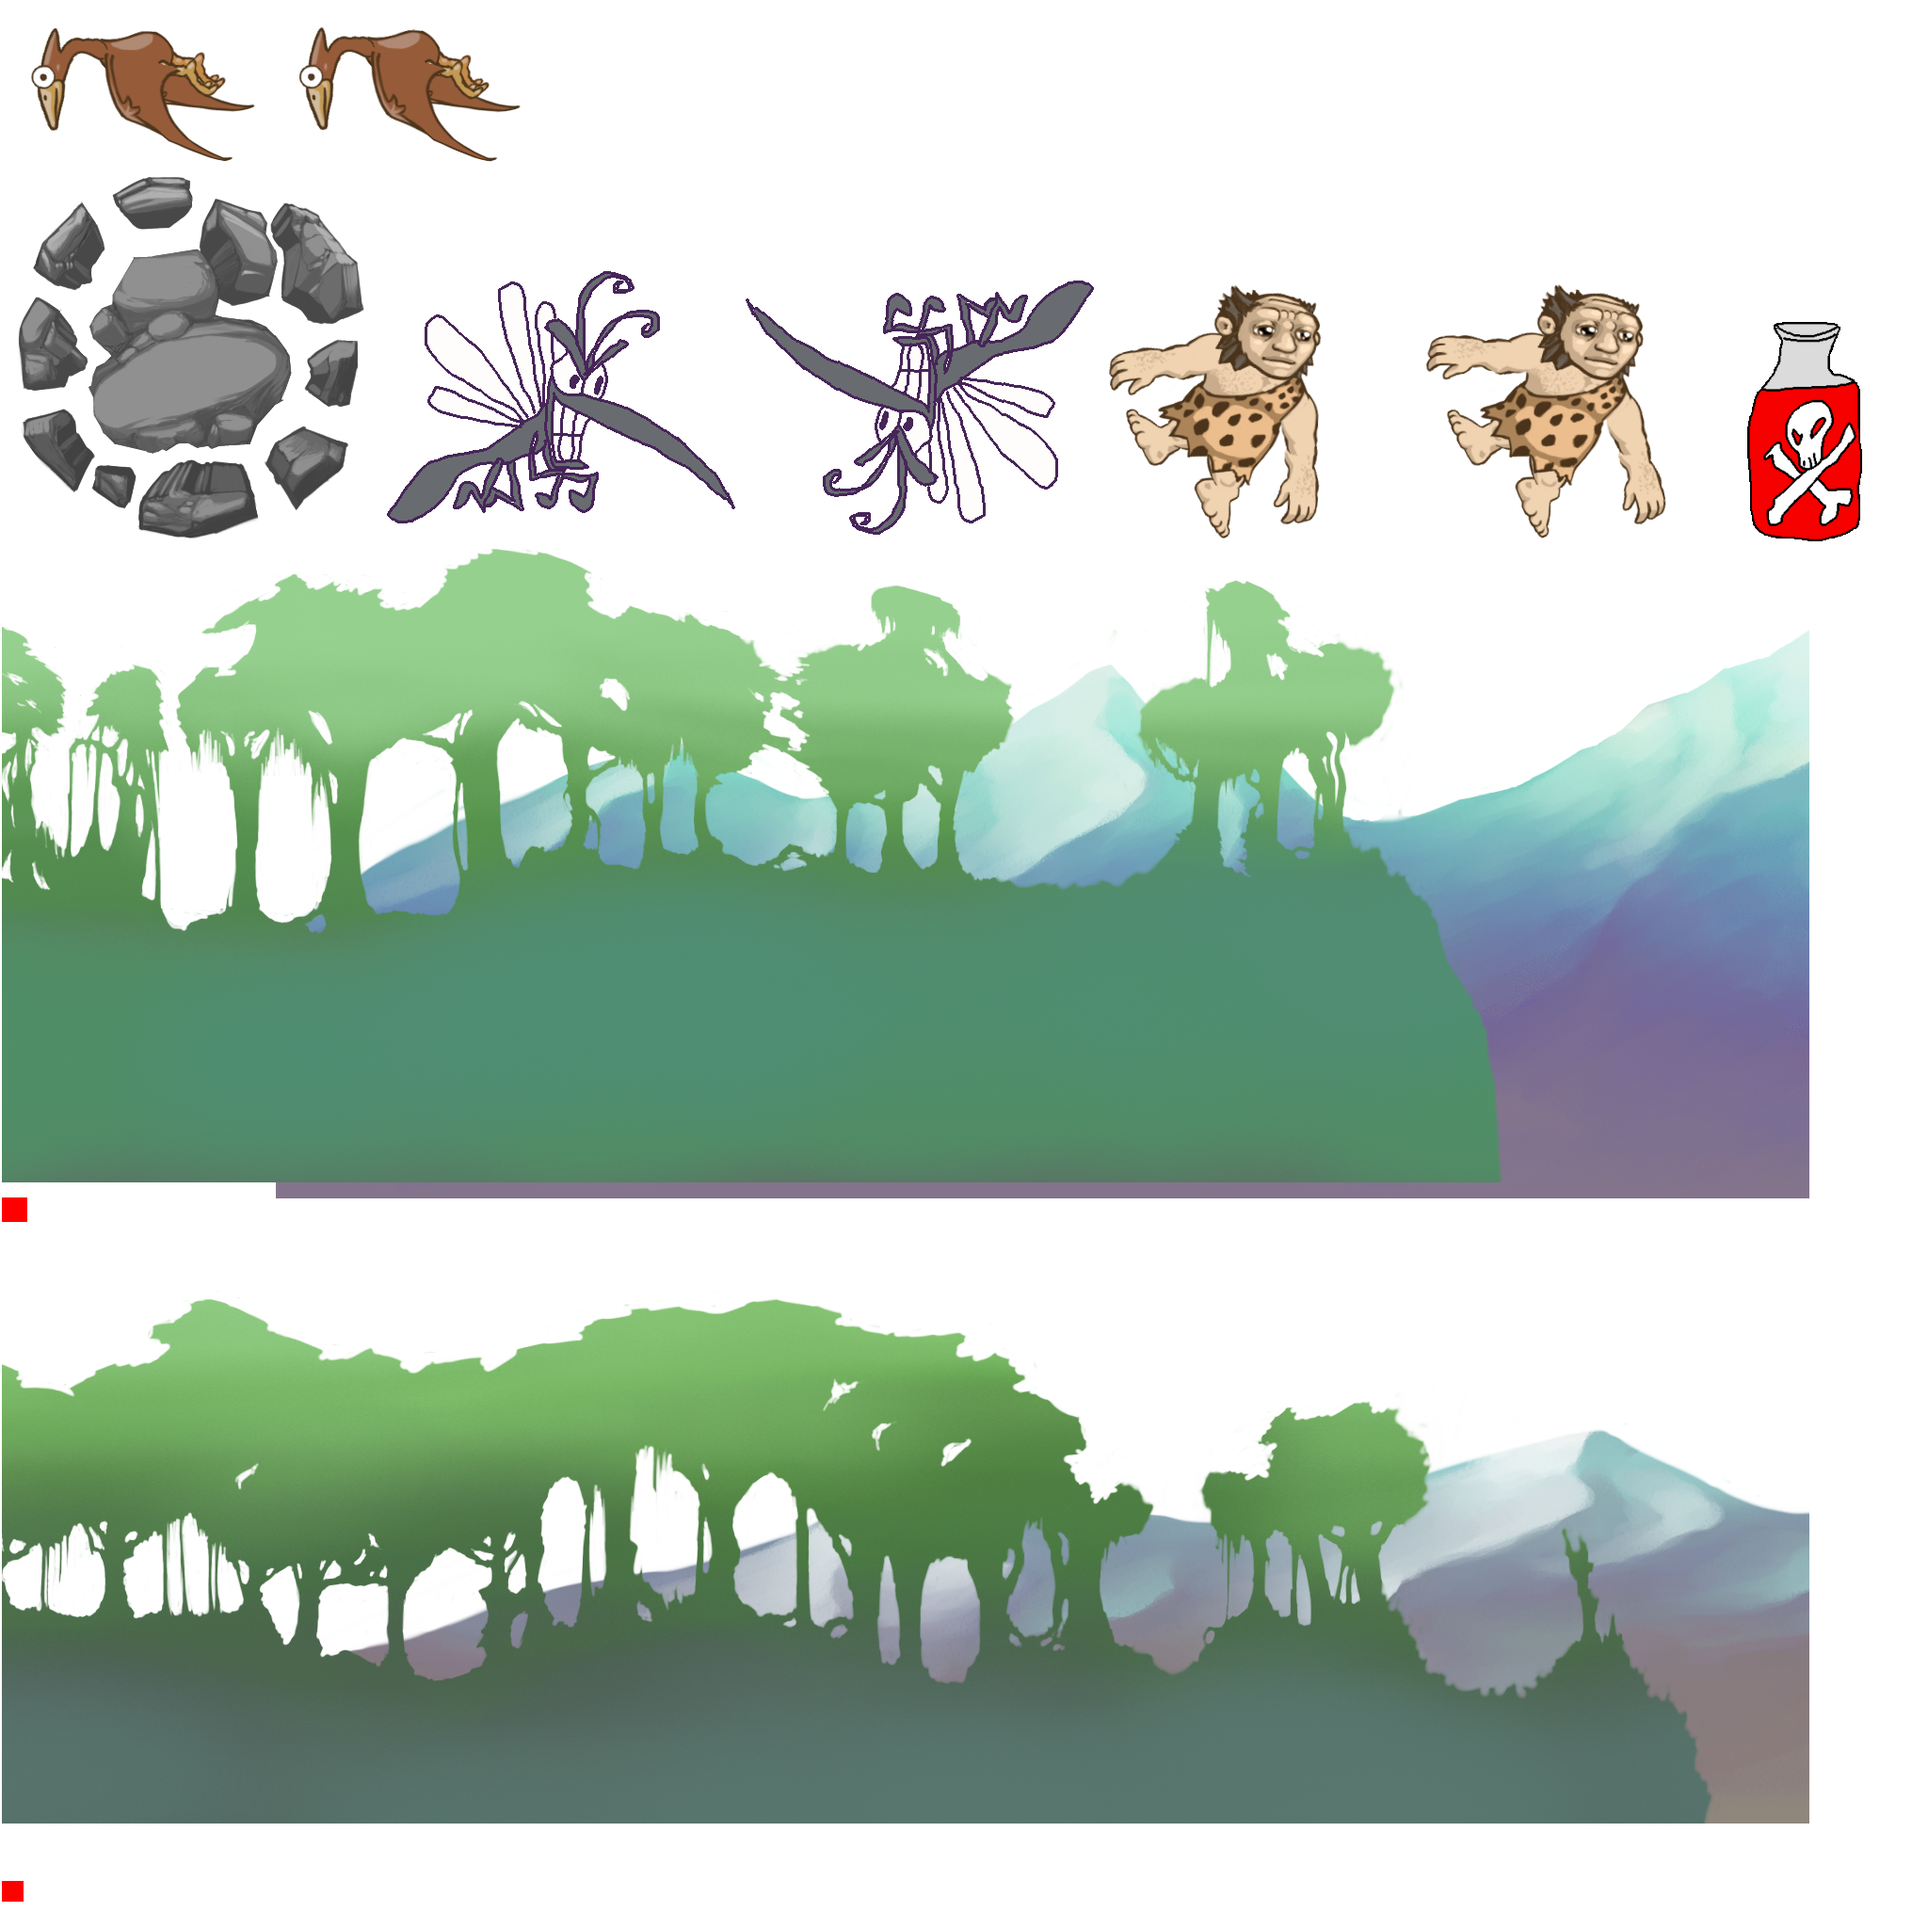
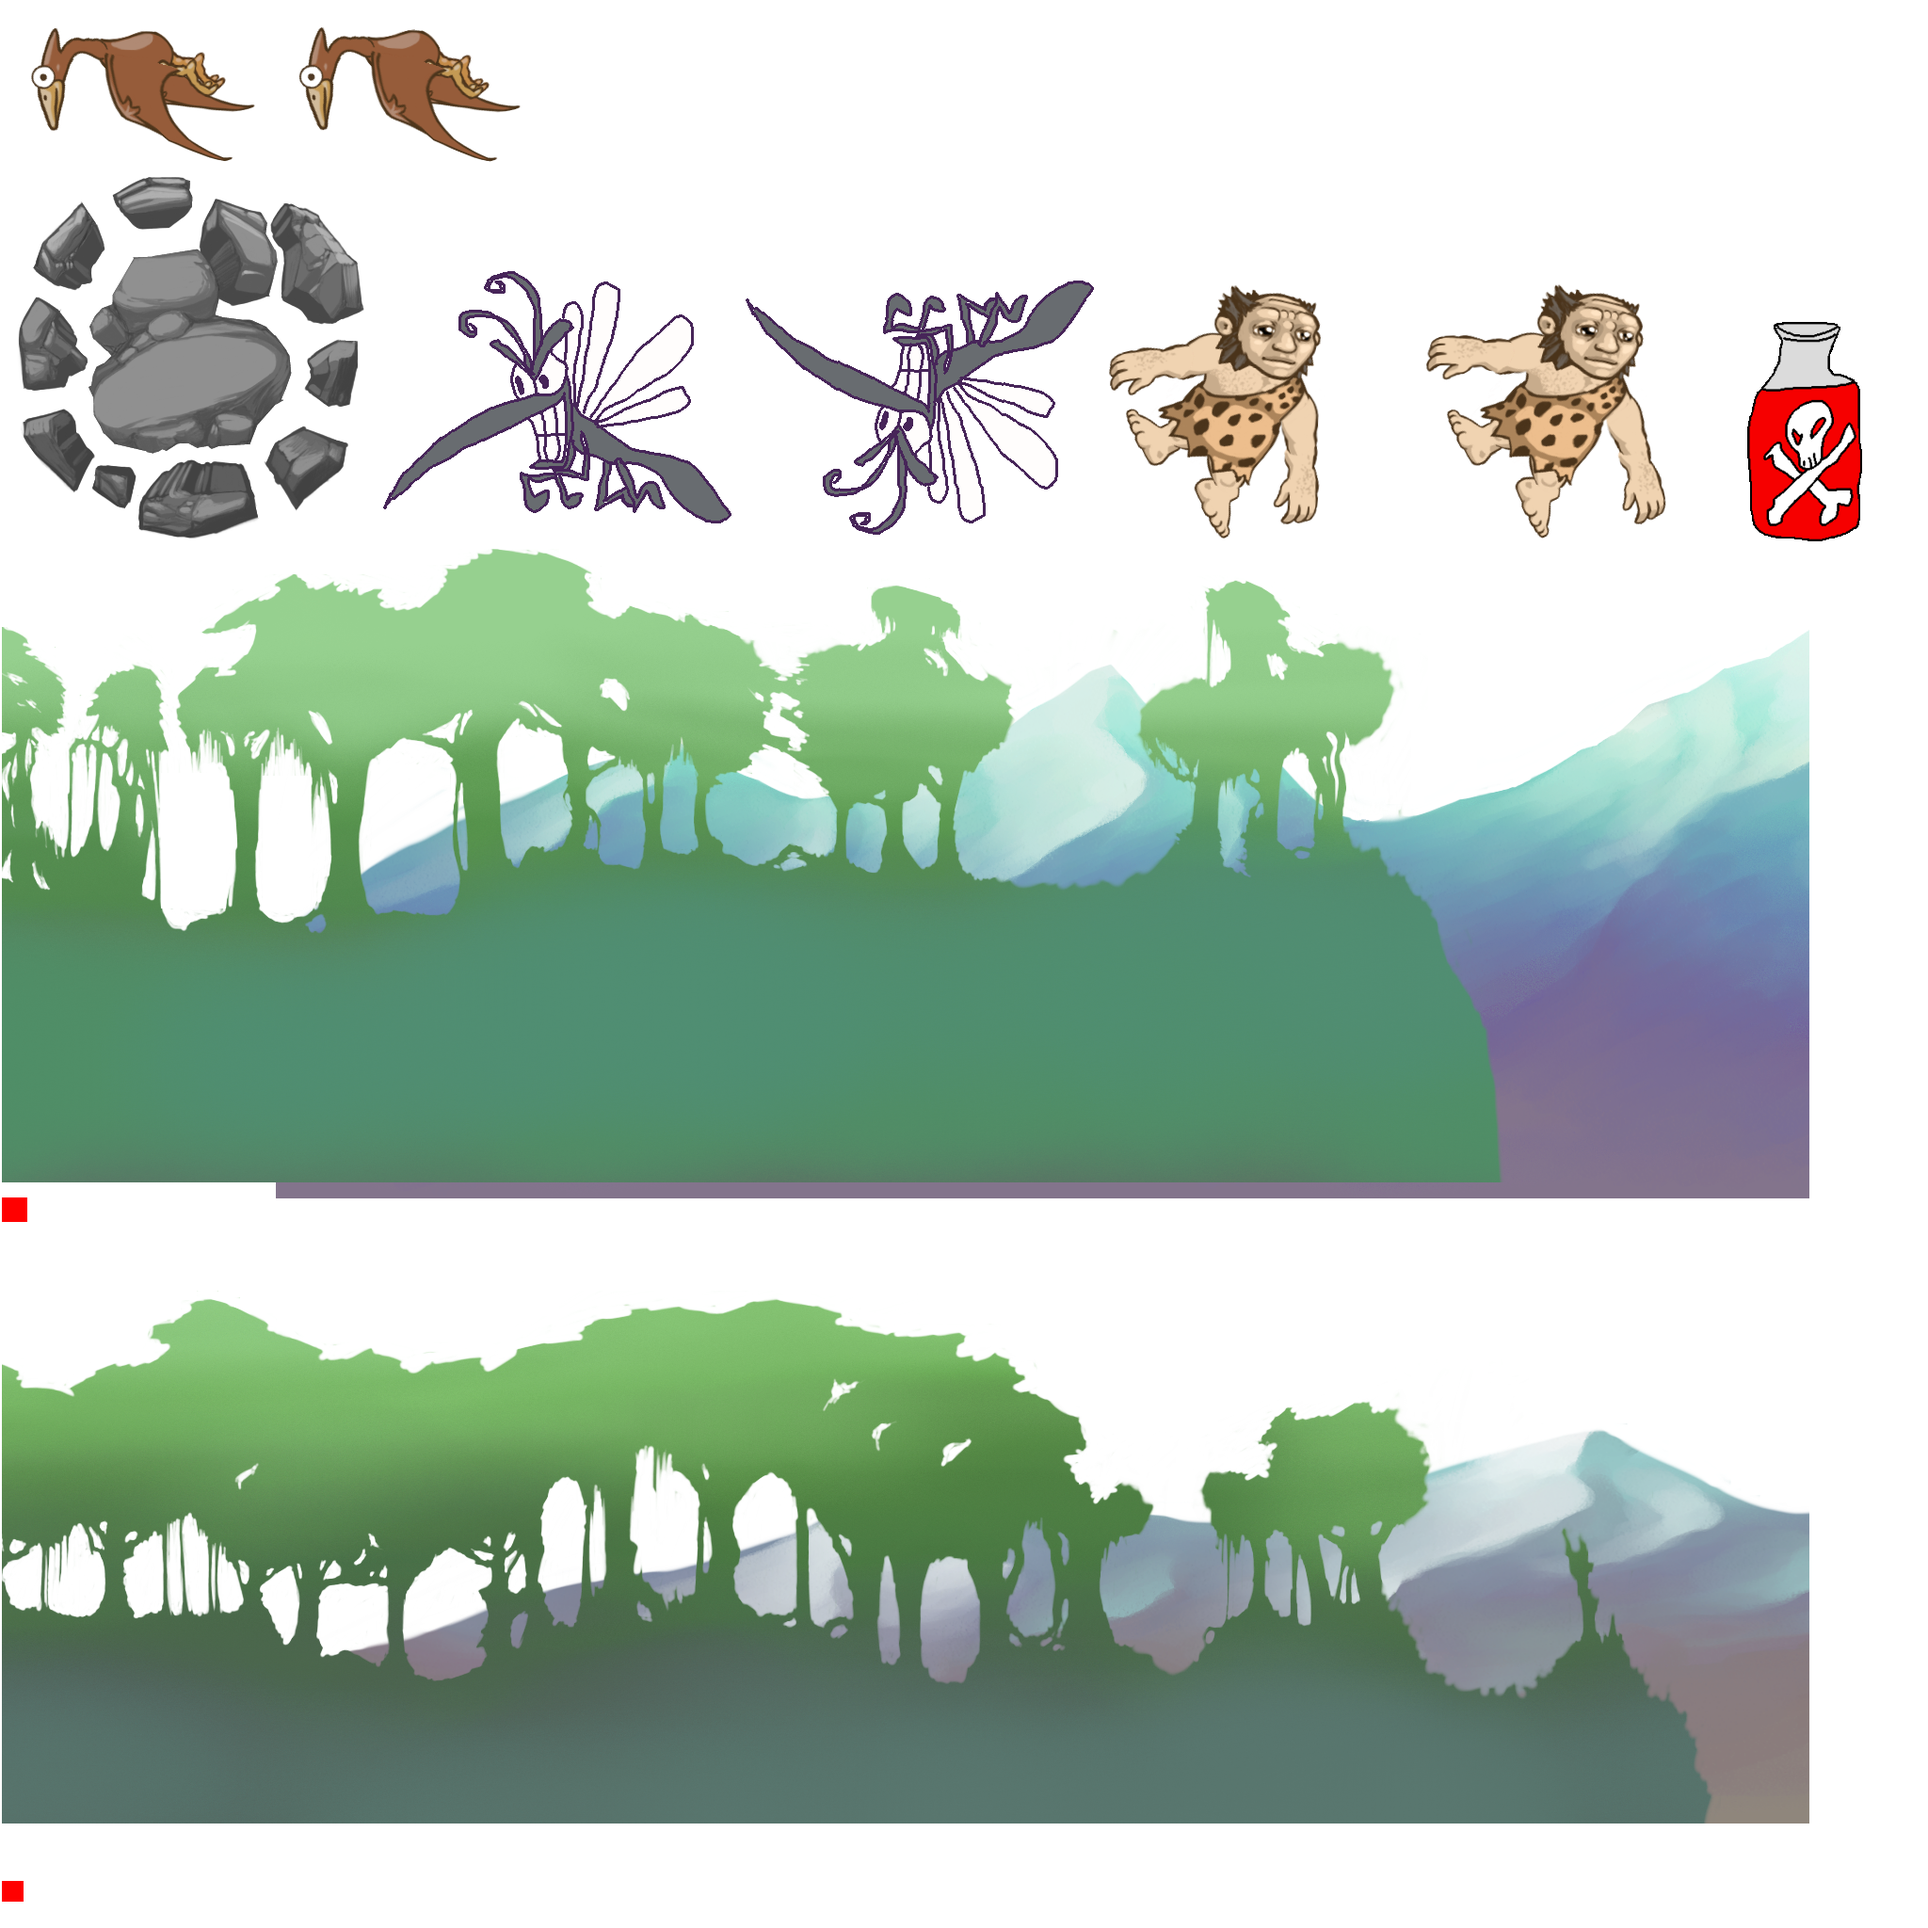
:trihard: mosquito implemented + balanced

Changed region(s): [[0.1875, 0.125, 0.375, 0.2812]]

diff --git a/core/src/com/deeep/flycaveman/entities/Obstacle.java b/core/src/com/deeep/flycaveman/entities/Obstacle.java
@@ -16,7 +16,7 @@ import java.util.Random;
 public class Obstacle implements Entity {
 
     public static enum Type {
-        SMALL_EGG, BRACHIOSAURUS, QUETZALCOATLUS, ARGENTAVIS, TOUCAN, SABRETOOTH
+        SMALL_EGG, BRACHIOSAURUS, QUETZALCOATLUS, ARGENTAVIS, TOUCAN, SABRETOOTH, MOSQUITO
     }
 
     private boolean dead = false;
@@ -27,7 +27,7 @@ public class Obstacle implements Entity {
     private PolygonShape shape;
     public int type;
     private final float smallEggSizeX = 0.65f, smallEggSizeY = 0.5f, quetzaSizeX = 2, quetzaSizeY = 2, brachioSizeX = 4,
-            brachioSizeY = 3, sabretoothSize = 0.5f;
+            brachioSizeY = 3, sabretoothSize = 0.5f, mosquitoSize = 0.65f;
     private float realSizeX, realSizeY, textureSizeX, textureSizeY;
     private Sprite sprite;
     private boolean hit;
@@ -106,6 +106,11 @@ public class Obstacle implements Entity {
             sprite.setSize(sabretoothSize * 2, sabretoothSize * 2);
             realSizeX = sabretoothSize;
             realSizeY = sabretoothSize;
+        } else if (type == Type.MOSQUITO.ordinal()) {
+            sprite = new Sprite(new TextureRegion(Assets.mosquitoTexture/*.getKeyFrame(stateTime)*/));
+            sprite.setSize(mosquitoSize * 2, mosquitoSize * 2);
+            realSizeX = mosquitoSize;
+            realSizeY = mosquitoSize;
         }
         textureSizeX = sprite.getRegionWidth();
         textureSizeY = sprite.getRegionHeight();
@@ -118,56 +123,9 @@ public class Obstacle implements Entity {
 
     @Override
     public void draw(Batch batch) {
-        if (type == Type.SMALL_EGG.ordinal()) {
-            if (!hit) sprite.setRegion(Assets.smallEggTexture);
-            else sprite.setRegion(Assets.smallEggBroken);
-        } else if (type == Type.BRACHIOSAURUS.ordinal()) {
-            if (!hit) sprite.setRegion(Assets.brachioTexture);
-            else if (tempBody != null) {
-                String tempString = (String) tempBody.getUserData();
-                if (tempString != null && tempString.equals("BodyHead")) sprite.setRegion(Assets.brachioFrontPull);
-                else if (tempString != null && tempString.equals("BodyTail")) sprite.setRegion(Assets.brachioBackPull);
-                else sprite.setRegion(Assets.brachioMidPull);
-            }
-        } else if (type == Type.QUETZALCOATLUS.ordinal()) {
-            if (!hit) sprite.setRegion(Assets.quetzaTexture.getKeyFrame(stateTime));
-            else sprite.setRegion(Assets.quetzaHit.getKeyFrame(stateTime));
-        } else if (type == Type.ARGENTAVIS.ordinal()) {
-            if (!hit) sprite.setRegion(Assets.argenTexture);
-            else sprite.setRegion(Assets.argenHit);
-        } else if (type == Type.TOUCAN.ordinal()) {
-            if (!hit) sprite.setRegion(Assets.toucanTexture);
-            else sprite.setRegion(Assets.toucanHit);
-        } else if (type == Type.SABRETOOTH.ordinal()) {
-            if (!hit) sprite.setRegion(Assets.sabertoothIdle.getKeyFrame(stateTime));
-            else sprite.setRegion(Assets.sabertoothHit.getKeyFrame(stateTime));
-        }
-        {/**Sprite realSizeX*/
-            float sizeX = sprite.getRegionWidth() * (realSizeX * 2) / textureSizeX;
-            float sizeY = sprite.getRegionHeight() * (realSizeY * 2) / textureSizeY;
-            sprite.setSize(sizeX, sizeY);
-            sprite.setOrigin(sprite.getWidth() / 2, sprite.getHeight() / 2);
-        }
-        {/**Sprite Position*/
-            if (type == Type.SMALL_EGG.ordinal())
-                sprite.setPosition(body.getPosition().x - sprite.getWidth() / 2,
-                        body.getPosition().y - sprite.getHeight() / 2);
-            else if (type == Type.BRACHIOSAURUS.ordinal())
-                sprite.setPosition(body.getPosition().x - sprite.getWidth() / 2,
-                        body.getPosition().y - sprite.getHeight() / 2);
-            else if (type == Type.QUETZALCOATLUS.ordinal())
-                sprite.setPosition(body.getPosition().x - sprite.getWidth() / 2 + 0.5f,
-                        body.getPosition().y - sprite.getHeight() / 2.5f);
-            else if (type == Type.ARGENTAVIS.ordinal())
-                sprite.setPosition(body.getPosition().x - sprite.getWidth() / 2,
-                        body.getPosition().y - sprite.getHeight() / 5);
-            else if (type == Type.TOUCAN.ordinal())
-                sprite.setPosition(body.getPosition().x - sprite.getWidth() / 2,
-                        body.getPosition().y - sprite.getHeight() / 2);
-            else if (type == Type.SABRETOOTH.ordinal())
-                sprite.setPosition(body.getPosition().x - sprite.getWidth() / 2,
-                        body.getPosition().y - sprite.getHeight() / 2);
-        }
+        getSpriteForType();
+        setSpriteSize();
+        setSpritePosition();
         sprite.setRotation(body.getAngle() * MathUtils.radiansToDegrees);
         sprite.draw(batch);
     }
@@ -175,13 +133,11 @@ public class Obstacle implements Entity {
     @Override
     public void update(float delta) {
         stateTime += delta;
-        if (!hit && type == Type.QUETZALCOATLUS.ordinal()
-                || type == Type.ARGENTAVIS.ordinal()
-                || type == Type.TOUCAN.ordinal()) {
+        if (!hit && type == Type.QUETZALCOATLUS.ordinal() || type == Type.ARGENTAVIS.ordinal()
+                || type == Type.TOUCAN.ordinal() || type == Type.MOSQUITO.ordinal()) {
             body.setTransform(body.getPosition().x - (delta * 6), body.getPosition().y, body.getAngle());
-        } else if (hit && type == Type.QUETZALCOATLUS.ordinal()
-                || type == Type.ARGENTAVIS.ordinal()
-                || type == Type.TOUCAN.ordinal()) {
+        } else if (hit && type == Type.QUETZALCOATLUS.ordinal() || type == Type.ARGENTAVIS.ordinal()
+                || type == Type.TOUCAN.ordinal() || type == Type.MOSQUITO.ordinal()) {
             body.setTransform(body.getPosition().x, body.getPosition().y - (delta * 10), body.getAngle());
         }
         if (hit) body.setActive(false);
@@ -207,7 +163,9 @@ public class Obstacle implements Entity {
     private void setType(Random random) {
         float typeRand = random.nextFloat();
         if (typeRand <= 0.96f && typeRand > 0.5f) {
-            if (random.nextFloat() <= 0.75f) type = Type.QUETZALCOATLUS.ordinal();
+            float rand = random.nextFloat();
+            if (rand <= 0.75f && rand > 0.35f) type = Type.QUETZALCOATLUS.ordinal();
+            else if (rand <= 0.35f) type = Type.MOSQUITO.ordinal();
             else type = Type.ARGENTAVIS.ordinal();
         } else if (typeRand >= 0.96f) type = Type.BRACHIOSAURUS.ordinal();
         else if (typeRand <= 0.5f && typeRand > 0.10f) type = Type.SMALL_EGG.ordinal();
@@ -237,6 +195,79 @@ public class Obstacle implements Entity {
         } else if (type == Type.SABRETOOTH.ordinal()) {
             bodyDef.position.set(positionX, 1.5f);
             shape.setAsBox(sabretoothSize, sabretoothSize);
+        } else if (type == Type.MOSQUITO.ordinal()) {
+            bodyDef.position.set(positionX, Math.max(5,
+                    world.caveman.body.getPosition().y - 20 + random.nextFloat() * 60));
+            shape.setAsBox(mosquitoSize - 0.2f, mosquitoSize - 0.2f);
         }
+    }
+
+    private void getSpriteForType() {
+        switch (type) {
+            case 0: /**SMALL_EGG*/
+                if (!hit) sprite.setRegion(Assets.smallEggTexture);
+                else sprite.setRegion(Assets.smallEggBroken);
+                break;
+            case 1: /**BRACHIOSAURUS*/
+                if (!hit) sprite.setRegion(Assets.brachioTexture);
+                else if (tempBody != null) {
+                    String tempString = (String) tempBody.getUserData();
+                    if (tempString != null && tempString.equals("BodyHead")) sprite.setRegion(Assets.brachioFrontPull);
+                    else if (tempString != null && tempString.equals("BodyTail"))
+                        sprite.setRegion(Assets.brachioBackPull);
+                    else sprite.setRegion(Assets.brachioMidPull);
+                }
+                break;
+            case 2: /**QUETZALCOATLUS*/
+                if (!hit) sprite.setRegion(Assets.quetzaTexture.getKeyFrame(stateTime));
+                else sprite.setRegion(Assets.quetzaHit.getKeyFrame(stateTime));
+                break;
+            case 3: /**ARGENTAVIS*/
+                if (!hit) sprite.setRegion(Assets.argenTexture);
+                else sprite.setRegion(Assets.argenHit);
+                break;
+            case 4: /**TOUCAN*/
+                if (!hit) sprite.setRegion(Assets.toucanTexture);
+                else sprite.setRegion(Assets.toucanHit);
+                break;
+            case 5: /**SABRETOOTH*/
+                if (!hit) sprite.setRegion(Assets.sabertoothIdle.getKeyFrame(stateTime));
+                else sprite.setRegion(Assets.sabertoothHit.getKeyFrame(stateTime));
+                break;
+            case 6: /**MOSQUITO*/
+                if (!hit) sprite.setRegion(Assets.mosquitoTexture/*.getKeyFrame(stateTime)*/);
+                else sprite.setRegion(Assets.mosquitoHit/*.getKeyFrame(stateTime)*/);
+                break;
+        }
+    }
+
+    private void setSpriteSize() {
+        sprite.setSize(sprite.getRegionWidth() * (realSizeX * 2) / textureSizeX,
+                sprite.getRegionHeight() * (realSizeY * 2) / textureSizeY);
+        sprite.setOrigin(sprite.getWidth() / 2, sprite.getHeight() / 2);
+    }
+
+    private void setSpritePosition() {
+        if (type == Type.SMALL_EGG.ordinal())
+            sprite.setPosition(body.getPosition().x - sprite.getWidth() / 2,
+                    body.getPosition().y - sprite.getHeight() / 2);
+        else if (type == Type.BRACHIOSAURUS.ordinal())
+            sprite.setPosition(body.getPosition().x - sprite.getWidth() / 2,
+                    body.getPosition().y - sprite.getHeight() / 2);
+        else if (type == Type.QUETZALCOATLUS.ordinal())
+            sprite.setPosition(body.getPosition().x - sprite.getWidth() / 2 + 0.5f,
+                    body.getPosition().y - sprite.getHeight() / 2.5f);
+        else if (type == Type.ARGENTAVIS.ordinal())
+            sprite.setPosition(body.getPosition().x - sprite.getWidth() / 2,
+                    body.getPosition().y - sprite.getHeight() / 5);
+        else if (type == Type.TOUCAN.ordinal())
+            sprite.setPosition(body.getPosition().x - sprite.getWidth() / 2,
+                    body.getPosition().y - sprite.getHeight() / 2);
+        else if (type == Type.SABRETOOTH.ordinal())
+            sprite.setPosition(body.getPosition().x - sprite.getWidth() / 2,
+                    body.getPosition().y - sprite.getHeight() / 2);
+        else if (type == Type.MOSQUITO.ordinal())
+            sprite.setPosition(body.getPosition().x - sprite.getWidth() / 2,
+                    body.getPosition().y - sprite.getHeight() / 2);
     }
 }

diff --git a/core/src/com/deeep/flycaveman/input/GameContactListener.java b/core/src/com/deeep/flycaveman/input/GameContactListener.java
@@ -17,7 +17,7 @@ public class GameContactListener implements ContactListener {
     private com.deeep.flycaveman.world.World world;
     private float force;
     private final float smallEggForce = 10, sabretoothForce = 15, brachioForce = 20, quetzaForce = 18, argenForce = 20,
-            toucanForce = 35;
+            toucanForce = 35, mosquitoForce = 16;
 
     public GameContactListener(Core game, World world) {
         this.game = game;
@@ -76,6 +76,10 @@ public class GameContactListener implements ContactListener {
                     case 5: /**SABRETOOTH*/
                         world.caveman.body.setLinearVelocity(world.caveman.body.getLinearVelocity().x,
                                 sabretoothForce + Math.abs(world.caveman.body.getLinearVelocity().y / 2));
+                        break;
+                    case 6: /**MOSQUITO*/
+                        world.caveman.body.setLinearVelocity(world.caveman.body.getLinearVelocity().x,
+                                mosquitoForce + Math.abs(world.caveman.body.getLinearVelocity().y / 2));
                         break;
                 }
                 if (obstacle.type == Obstacle.Type.BRACHIOSAURUS.ordinal()) {
